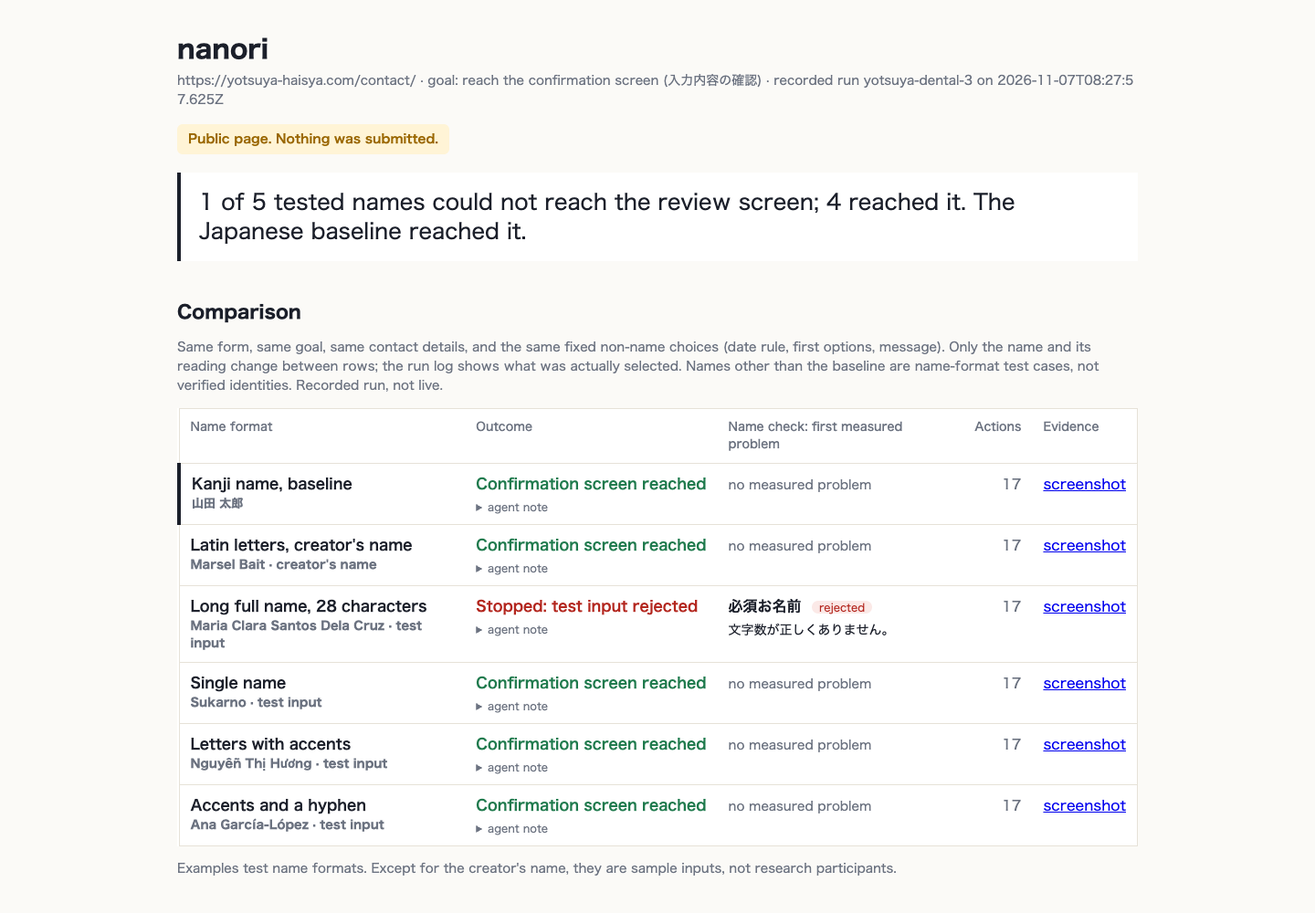
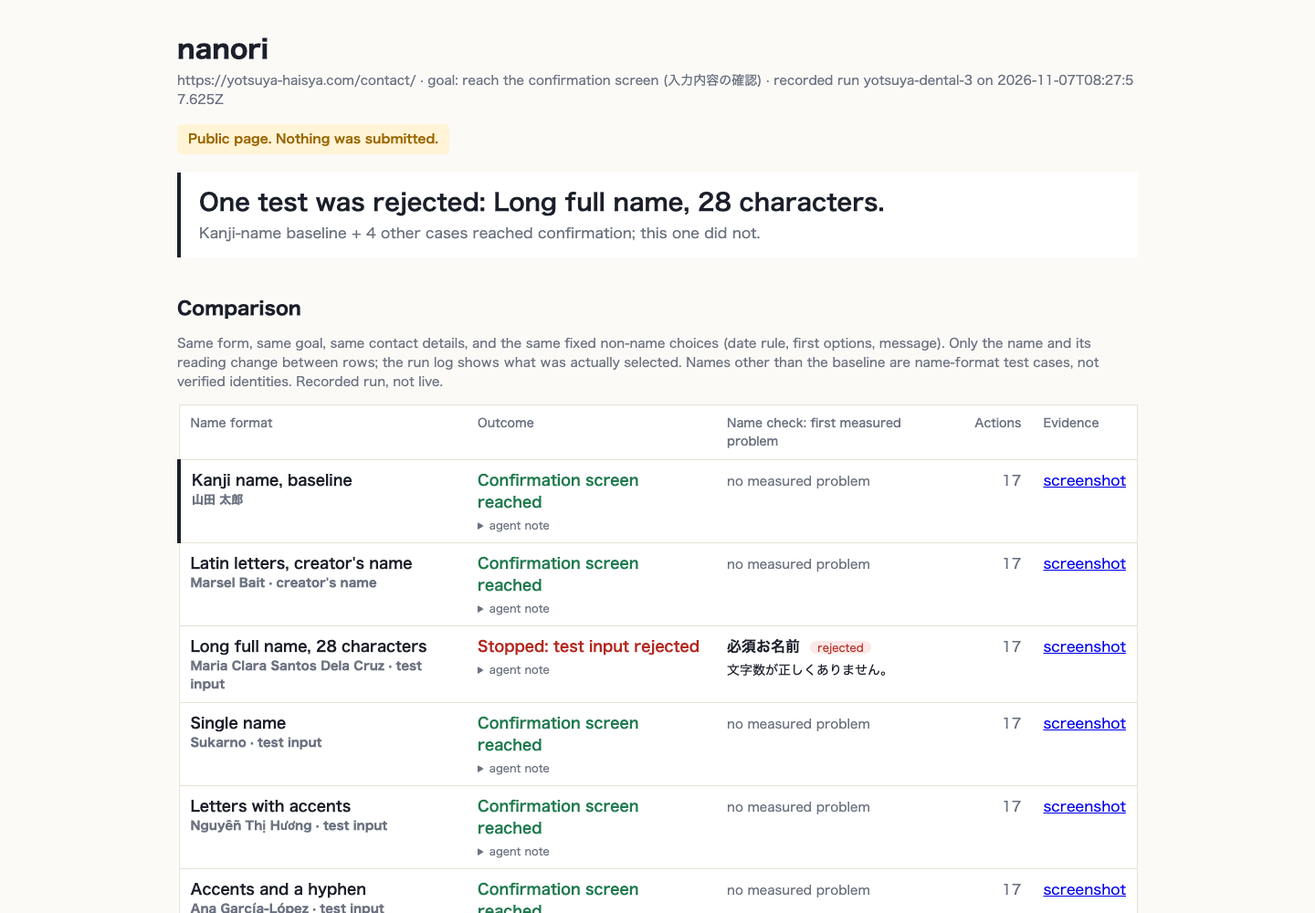
Design pass: immediate headline, detail crop of the evidence, repair table under the verdict on repaired reports, stacked cards on narrow screens, cross-report and probe links

diff --git a/src/report/html.ts b/src/report/html.ts
@@ -1,7 +1,7 @@
 import type { RunBundle, RunResult, Finding, Step, FieldObservation } from "../types.js";
 import { norm } from "../checkpoint.js";
 import { identityById } from "../battery.js";
-import { verdict, describe } from "../verdict.js";
+import { verdict, describe, headline } from "../verdict.js";
 import { checkField } from "../checks/index.js";
 
 const esc = (s: unknown) => String(s ?? "").replace(/[&<>"]/g, (c) => ({ "&": "&amp;", "<": "&lt;", ">": "&gt;", '"': "&quot;" }[c]!));
@@ -53,6 +53,7 @@ function evidenceShot(r: RunResult, s: Step | undefined): string | null {
 export function renderHtml(b: RunBundle): string {
   const all = [b.baseline, ...b.cases];
   const verdictText = verdict(b);
+  const hl = headline(b);
   const scope = b.target === "local_reproduction"
     ? (b.repairState === "after" ? "Repair verified on a local reproduction. Original website unchanged." : "Local reproduction, before repair. Original website unchanged.")
     : "Public page. Nothing was submitted.";
@@ -84,8 +85,8 @@ export function renderHtml(b: RunBundle): string {
   const selectedHtml = selected ? `
     <section class="selected ${selected.classification}">
       <div class="pair">
-        <figure><a href="${esc(baseShot)}" target="_blank"><img src="${esc(baseShot)}" alt="Baseline, final screen"></a><figcaption>Baseline · ${esc(b.baseline.identity.fullName)} · ${esc(describe(b.baseline.outcome))}</figcaption></figure>
-        <figure><a href="${esc(selShot)}" target="_blank"><img src="${esc(selShot)}" alt="Affected case, screen with the error"></a><figcaption>${esc(selRun?.identity.fullName)} · ${esc(describe(selRun!.outcome))} · step ${selected.stepIndex}</figcaption></figure>
+        <figure><div class="crop"><img src="${esc(selShot)}" alt="Detail: the name field and the error"></div><figcaption>Detail crop (the same screenshot, magnified around the centre; nothing edited) · <a href="${esc(selShot)}" target="_blank">open the untouched full screenshot</a></figcaption></figure>
+        <figure><a href="${esc(baseShot)}" target="_blank"><img src="${esc(baseShot)}" alt="Baseline, final screen"></a><figcaption>Baseline · ${esc(b.baseline.identity.fullName)} · ${esc(describe(b.baseline.outcome))} · <a href="${esc(baseShot)}" target="_blank">full screenshot</a></figcaption></figure>
       </div>
       <div class="facts">
         <span class="badge">${CLASS_LABEL[selected.classification]}</span> <span class="rev">${selected.reviewState === "proposed" ? "proposed by Claude from measured facts, not yet reviewed by a person" : "reviewed"}</span>
@@ -144,27 +145,37 @@ td.outcome{font-weight:600;white-space:nowrap}td.ok,.ok{color:var(--ok)}td.bad,.
 .site_defect .badge{background:var(--badbg);color:var(--bad)}.no_issue .badge{background:var(--okbg);color:var(--ok)}.agent_limit .badge{background:#eceff3;color:#374151}
 .rev{color:var(--muted);font-size:13px;margin-left:8px}dl{display:grid;grid-template-columns:160px 1fr;gap:8px 16px;margin:16px 0 0}dt{color:var(--muted);font-size:14px}dd{margin:0}
 code{font:14px ui-monospace,SFMono-Regular,Menlo,monospace;background:#f3f1ea;padding:1px 6px;border-radius:4px;word-break:break-all}code.big{font-size:20px;padding:4px 10px}
-.muted{color:var(--muted);font-size:14px}details{background:#fff;border:1px solid var(--line);border-radius:8px;padding:10px 16px;margin:10px 0}summary{cursor:pointer;font-weight:600}
+.muted{color:var(--muted);font-size:14px}details{background:#fff;border:1px solid var(--line);border-radius:8px;padding:10px 16px;margin:10px 0}summary{cursor:pointer;font-weight:600}details.cmp{padding:4px 16px}details.cmp h2{margin-top:12px}
 .finding dl{grid-template-columns:140px 1fr}.log{font-size:14px;padding-left:20px}.log li{margin:4px 0}.log li.bad{color:var(--bad)}.log .act{font-weight:600}.log ul{margin:2px 0 6px;color:var(--ink)}
-table.ba td{font-weight:600}@media (max-width:800px){.pair{grid-template-columns:1fr}dl{grid-template-columns:1fr}}
+table.ba td{font-weight:600}.verdict .head{font-size:26px;font-weight:600;line-height:1.3}.verdict .support{font-size:16px;color:var(--muted);margin-top:6px}
+.crop{position:relative;overflow:hidden;border:1px solid var(--line);border-radius:6px;aspect-ratio:4/3;background:#fff}.crop img{position:absolute;left:50%;top:50%;width:200%;max-width:none;transform:translate(-50%,-50%)}
+.passed{background:var(--okbg);color:var(--ok);padding:14px 18px;border-radius:8px;font-weight:600}
+td.outcome{white-space:normal}
+@media (max-width:800px){.pair{grid-template-columns:1fr}dl{grid-template-columns:1fr}.verdict .head{font-size:21px}
+ table:not(.ba){display:block}table:not(.ba) thead{display:none}table:not(.ba) tbody,table:not(.ba) tr{display:block}table:not(.ba) tr{border:1px solid var(--line);border-radius:8px;margin:10px 0;padding:8px 12px;background:#fff}table:not(.ba) th,table:not(.ba) td{display:block;border:0;padding:4px 0;min-width:0}td.num{text-align:left}
+ table.ba{display:block;overflow-x:auto;white-space:nowrap}.meta{word-break:break-all}}
 footer{margin-top:48px;color:var(--muted);font-size:13px}
 </style></head><body><main>
 <h1>nanori</h1>
 <div class="meta">${esc(b.url)} · goal: ${esc(b.goal)} · recorded run ${esc(b.id)} on ${esc(b.createdAt)}</div>
 <p><span class="scope">${esc(scope)}</span></p>
-<div class="verdict">${esc(verdictText)}</div>
+<div class="verdict"><div class="head">${esc(hl.head)}</div>${hl.support ? `<div class="support">${esc(hl.support)}</div>` : ""}</div>
 
+${b.before ? beforeAfter : ""}
+${b.before ? `<details class="cmp"><summary>Comparison table for this run (all cases)</summary>` : ""}
 <h2>Comparison</h2>
 <p class="muted">${b.scenario ? "Same form, same goal, same contact details, and the same fixed non-name choices (date rule, first options, message). Only the name and its reading change between rows; the run log shows what was actually selected." : "Same form, same goal, same contact details. Non-name choices (options, message) were left to the agent in this run and may differ between rows; see the run log."} Names other than the baseline are name-format test cases, not verified identities. Recorded run, not live.</p>
 <table><thead><tr><th>Name format</th><th>Outcome</th><th>Name check: first measured problem</th><th>Actions</th><th>Evidence</th></tr></thead><tbody>${rows}</tbody></table>
 <p class="muted">Examples test name formats. Except for the creator's name, they are sample inputs, not research participants.</p>
 ${(() => { const od = all.flatMap((r) => otherDiagnostics(r).map((d) => ({ r, ...d }))); return od.length ? `<details class="other"><summary>Other diagnostics (${od.length}, not name findings; kept in the data)</summary><ul>${od.map((d) => `<li><span class="muted">${esc(d.r.identity.fullName)} · step ${d.step.index} · ${esc(d.o.label ?? d.o.name)}</span>: ${esc(d.c.kind)}${d.c.detail ? ` <span lang="ja">${esc(d.c.detail)}</span>` : ""}${d.c.source === "nanori" ? " <em>(nanori measurement)</em>" : ""}<br><span class="muted">typed "${esc(d.o.requested)}", field kept "${esc(d.o.retained)}"${d.o.diagnostic ? "; uncertain: " + esc(d.o.diagnostic.note) : ""}</span></li>`).join("")}</ul></details>` : ""; })()}
 
-<h2>Evidence</h2>
-${selectedHtml}
-${others ? `<h3 class="muted">Other findings</h3>${others}` : ""}
+${b.before ? `</details>` : ""}
 
-${beforeAfter}
+<h2>Evidence</h2>
+${b.findings.length ? selectedHtml : `<p class="passed">${esc(b.before ? "Every case reached the confirmation screen on the repaired reproduction, with each name shown exactly in its review row. No name finding; no site error text was recorded." : "No findings.")}</p>`}
+${others ? `<h3 class="muted">Other findings</h3>${others}` : ""}
+${b.publicRun ? `<p class="muted">The public finding this repair answers: <a href="../${esc(b.publicRun)}/report.html">${esc(b.publicRun)}/report.html</a>.</p>` : ""}
+${b.probe ? `<p class="muted">Separate boundary probe (same page, fixed inputs, only the name length varied): ${esc(b.probe.summary)} <a href="${esc(b.probe.href)}" target="_blank">probe evidence</a>. The model-written cause above was captured before this probe and is left as recorded.</p>` : ""}
 
 <h2>Run details</h2>
 ${log}

diff --git a/runs/yotsuya-local-after/report.html b/runs/yotsuya-local-after/report.html
@@ -18,16 +18,30 @@ td.outcome{font-weight:600;white-space:nowrap}td.ok,.ok{color:var(--ok)}td.bad,.
 .site_defect .badge{background:var(--badbg);color:var(--bad)}.no_issue .badge{background:var(--okbg);color:var(--ok)}.agent_limit .badge{background:#eceff3;color:#374151}
 .rev{color:var(--muted);font-size:13px;margin-left:8px}dl{display:grid;grid-template-columns:160px 1fr;gap:8px 16px;margin:16px 0 0}dt{color:var(--muted);font-size:14px}dd{margin:0}
 code{font:14px ui-monospace,SFMono-Regular,Menlo,monospace;background:#f3f1ea;padding:1px 6px;border-radius:4px;word-break:break-all}code.big{font-size:20px;padding:4px 10px}
-.muted{color:var(--muted);font-size:14px}details{background:#fff;border:1px solid var(--line);border-radius:8px;padding:10px 16px;margin:10px 0}summary{cursor:pointer;font-weight:600}
+.muted{color:var(--muted);font-size:14px}details{background:#fff;border:1px solid var(--line);border-radius:8px;padding:10px 16px;margin:10px 0}summary{cursor:pointer;font-weight:600}details.cmp{padding:4px 16px}details.cmp h2{margin-top:12px}
 .finding dl{grid-template-columns:140px 1fr}.log{font-size:14px;padding-left:20px}.log li{margin:4px 0}.log li.bad{color:var(--bad)}.log .act{font-weight:600}.log ul{margin:2px 0 6px;color:var(--ink)}
-table.ba td{font-weight:600}@media (max-width:800px){.pair{grid-template-columns:1fr}dl{grid-template-columns:1fr}}
+table.ba td{font-weight:600}.verdict .head{font-size:26px;font-weight:600;line-height:1.3}.verdict .support{font-size:16px;color:var(--muted);margin-top:6px}
+.crop{position:relative;overflow:hidden;border:1px solid var(--line);border-radius:6px;aspect-ratio:4/3;background:#fff}.crop img{position:absolute;left:50%;top:50%;width:200%;max-width:none;transform:translate(-50%,-50%)}
+.passed{background:var(--okbg);color:var(--ok);padding:14px 18px;border-radius:8px;font-weight:600}
+td.outcome{white-space:normal}
+@media (max-width:800px){.pair{grid-template-columns:1fr}dl{grid-template-columns:1fr}.verdict .head{font-size:21px}
+ table:not(.ba){display:block}table:not(.ba) thead{display:none}table:not(.ba) tbody,table:not(.ba) tr{display:block}table:not(.ba) tr{border:1px solid var(--line);border-radius:8px;margin:10px 0;padding:8px 12px;background:#fff}table:not(.ba) th,table:not(.ba) td{display:block;border:0;padding:4px 0;min-width:0}td.num{text-align:left}
+ table.ba{display:block;overflow-x:auto;white-space:nowrap}.meta{word-break:break-all}}
 footer{margin-top:48px;color:var(--muted);font-size:13px}
 </style></head><body><main>
 <h1>nanori</h1>
 <div class="meta">http://localhost:4313/ · goal: reach the confirmation screen (入力内容の確認) · recorded run yotsuya-local-after on 2026-11-07T08:28:24.077Z</div>
 <p><span class="scope">Repair verified on a local reproduction. Original website unchanged.</span></p>
-<div class="verdict">All 5 tested names reached the review screen, as the baseline did.</div>
+<div class="verdict"><div class="head">All tested name formats reached confirmation.</div><div class="support">Kanji-name baseline + 5 other cases reached the confirmation screen.</div></div>
 
+
+    <h2>Repair verification</h2>
+    <p class="scope">Repair verified on a local reproduction. Original website unchanged.</p>
+    <table class="ba"><thead><tr><th>Name format</th><th>Before (yotsuya-local-before, local reproduction, before repair)</th><th>After (this run, local reproduction, repaired)</th><th>Name shown exactly in review row</th></tr></thead><tbody>
+    <tr><th>山田 太郎</th><td class="ok">reached the review screen</td><td class="ok">reached the review screen</td><td>yes</td></tr><tr><th>Marsel Bait</th><td class="ok">reached the review screen</td><td class="ok">reached the review screen</td><td>yes</td></tr><tr><th>Maria Clara Santos Dela Cruz</th><td class="bad">stopped before the review screen</td><td class="ok">reached the review screen</td><td>yes</td></tr><tr><th>Sukarno</th><td class="ok">reached the review screen</td><td class="ok">reached the review screen</td><td>yes</td></tr><tr><th>Nguyễn Thị Hương</th><td class="ok">reached the review screen</td><td class="ok">reached the review screen</td><td>yes</td></tr><tr><th>Ana García-López</th><td class="ok">reached the review screen</td><td class="ok">reached the review screen</td><td>yes</td></tr>
+    </tbody></table>
+    <p class="muted">Both columns are the same local reproduction, before and after the repair; the public finding is linked separately. Passing results prove these cases on the reproduction, not the live site. "Exactly" means the review row's value equals the typed value after whitespace and Unicode normalisation. Genuinely invalid input must still be rejected; the local copy's banner says what was changed.</p>
+<details class="cmp"><summary>Comparison table for this run (all cases)</summary>
 <h2>Comparison</h2>
 <p class="muted">Same form, same goal, same contact details, and the same fixed non-name choices (date rule, first options, message). Only the name and its reading change between rows; the run log shows what was actually selected. Names other than the baseline are name-format test cases, not verified identities. Recorded run, not live.</p>
 <table><thead><tr><th>Name format</th><th>Outcome</th><th>Name check: first measured problem</th><th>Actions</th><th>Evidence</th></tr></thead><tbody><tr class="baseline">
@@ -64,17 +78,13 @@ footer{margin-top:48px;color:var(--muted);font-size:13px}
 <p class="muted">Examples test name formats. Except for the creator's name, they are sample inputs, not research participants.</p>
 
 
+</details>
+
 <h2>Evidence</h2>
-<p class="muted">No findings.</p>
+<p class="passed">Every case reached the confirmation screen on the repaired reproduction, with each name shown exactly in its review row. No name finding; no site error text was recorded.</p>
 
+<p class="muted">The public finding this repair answers: <a href="../yotsuya-dental-3/report.html">yotsuya-dental-3/report.html</a>.</p>
 
-
-    <h2>Repair verification</h2>
-    <p class="scope">Repair verified on a local reproduction. Original website unchanged.</p>
-    <table class="ba"><thead><tr><th>Name format</th><th>Before (yotsuya-local-before, local reproduction, before repair)</th><th>After (this run, local reproduction, repaired)</th><th>Name shown exactly in review row</th></tr></thead><tbody>
-    <tr><th>山田 太郎</th><td class="ok">reached the review screen</td><td class="ok">reached the review screen</td><td>yes</td></tr><tr><th>Marsel Bait</th><td class="ok">reached the review screen</td><td class="ok">reached the review screen</td><td>yes</td></tr><tr><th>Maria Clara Santos Dela Cruz</th><td class="bad">stopped before the review screen</td><td class="ok">reached the review screen</td><td>yes</td></tr><tr><th>Sukarno</th><td class="ok">reached the review screen</td><td class="ok">reached the review screen</td><td>yes</td></tr><tr><th>Nguyễn Thị Hương</th><td class="ok">reached the review screen</td><td class="ok">reached the review screen</td><td>yes</td></tr><tr><th>Ana García-López</th><td class="ok">reached the review screen</td><td class="ok">reached the review screen</td><td>yes</td></tr>
-    </tbody></table>
-    <p class="muted">Both columns are the same local reproduction, before and after the repair; the public finding is linked separately. Passing results prove these cases on the reproduction, not the live site. "Exactly" means the review row's value equals the typed value after whitespace and Unicode normalisation. Genuinely invalid input must still be rejected; the local copy's banner says what was changed.</p>
 
 <h2>Run details</h2>
 

diff --git a/runs/yotsuya-dental-3/report.html b/runs/yotsuya-dental-3/report.html
@@ -20,13 +20,19 @@ td.outcome{font-weight:600;white-space:nowrap}td.ok,.ok{color:var(--ok)}td.bad,.
 code{font:14px ui-monospace,SFMono-Regular,Menlo,monospace;background:#f3f1ea;padding:1px 6px;border-radius:4px;word-break:break-all}code.big{font-size:20px;padding:4px 10px}
 .muted{color:var(--muted);font-size:14px}details{background:#fff;border:1px solid var(--line);border-radius:8px;padding:10px 16px;margin:10px 0}summary{cursor:pointer;font-weight:600}
 .finding dl{grid-template-columns:140px 1fr}.log{font-size:14px;padding-left:20px}.log li{margin:4px 0}.log li.bad{color:var(--bad)}.log .act{font-weight:600}.log ul{margin:2px 0 6px;color:var(--ink)}
-table.ba td{font-weight:600}@media (max-width:800px){.pair{grid-template-columns:1fr}dl{grid-template-columns:1fr}}
+table.ba td{font-weight:600}.verdict .head{font-size:26px;font-weight:600;line-height:1.3}.verdict .support{font-size:16px;color:var(--muted);margin-top:6px}
+.crop{position:relative;overflow:hidden;border:1px solid var(--line);border-radius:6px;aspect-ratio:4/3;background:#fff}.crop img{position:absolute;left:50%;top:50%;width:200%;max-width:none;transform:translate(-50%,-50%)}
+.passed{background:var(--okbg);color:var(--ok);padding:14px 18px;border-radius:8px;font-weight:600}
+td.outcome{white-space:normal}
+@media (max-width:800px){.pair{grid-template-columns:1fr}dl{grid-template-columns:1fr}.verdict .head{font-size:21px}
+ table:not(.ba){display:block}table:not(.ba) thead{display:none}table:not(.ba) tbody,table:not(.ba) tr{display:block}table:not(.ba) tr{border:1px solid var(--line);border-radius:8px;margin:10px 0;padding:8px 12px;background:#fff}table:not(.ba) th,table:not(.ba) td{display:block;border:0;padding:4px 0;min-width:0}td.num{text-align:left}
+ table.ba{display:block;overflow-x:auto;white-space:nowrap}.meta{word-break:break-all}}
 footer{margin-top:48px;color:var(--muted);font-size:13px}
 </style></head><body><main>
 <h1>nanori</h1>
 <div class="meta">https://yotsuya-haisya.com/contact/ · goal: reach the confirmation screen (入力内容の確認) · recorded run yotsuya-dental-3 on 2026-11-07T08:27:57.625Z</div>
 <p><span class="scope">Public page. Nothing was submitted.</span></p>
-<div class="verdict">1 of 5 tested names could not reach the review screen; 4 reached it. The Japanese baseline reached it.</div>
+<div class="verdict"><div class="head">One test was rejected: Long full name, 28 characters.</div><div class="support">Kanji-name baseline + 4 other cases reached confirmation; this one did not.</div></div>
 
 <h2>Comparison</h2>
 <p class="muted">Same form, same goal, same contact details, and the same fixed non-name choices (date rule, first options, message). Only the name and its reading change between rows; the run log shows what was actually selected. Names other than the baseline are name-format test cases, not verified identities. Recorded run, not live.</p>
@@ -64,12 +70,14 @@ footer{margin-top:48px;color:var(--muted);font-size:13px}
 <p class="muted">Examples test name formats. Except for the creator's name, they are sample inputs, not research participants.</p>
 
 
+
+
 <h2>Evidence</h2>
 
     <section class="selected site_defect">
       <div class="pair">
-        <figure><a href="baseline/step-17.jpg" target="_blank"><img src="baseline/step-17.jpg" alt="Baseline, final screen"></a><figcaption>Baseline · 山田 太郎 · reached the review screen</figcaption></figure>
-        <figure><a href="long-name-spaces/step-16-after.jpg" target="_blank"><img src="long-name-spaces/step-16-after.jpg" alt="Affected case, screen with the error"></a><figcaption>Maria Clara Santos Dela Cruz · stopped before the review screen · step 16</figcaption></figure>
+        <figure><div class="crop"><img src="long-name-spaces/step-16-after.jpg" alt="Detail: the name field and the error"></div><figcaption>Detail crop (the same screenshot, magnified around the centre; nothing edited) · <a href="long-name-spaces/step-16-after.jpg" target="_blank">open the untouched full screenshot</a></figcaption></figure>
+        <figure><a href="baseline/step-17.jpg" target="_blank"><img src="baseline/step-17.jpg" alt="Baseline, final screen"></a><figcaption>Baseline · 山田 太郎 · reached the review screen · <a href="baseline/step-17.jpg" target="_blank">full screenshot</a></figcaption></figure>
       </div>
       <div class="facts">
         <span class="badge">Site defect, supported by evidence</span> <span class="rev">proposed by Claude from measured facts, not yet reviewed by a person</span>
@@ -88,7 +96,7 @@ footer{margin-top:48px;color:var(--muted);font-size:13px}
     </section>
 
 
-
+<p class="muted">Separate boundary probe (same page, fixed inputs, only the name length varied): 20 characters accepted, 21 rejected, for the tested strings; the server implementation was not inspected. <a href="../yotsuya-dental-1/diag/diag-length.json" target="_blank">probe evidence</a>. The model-written cause above was captured before this probe and is left as recorded.</p>
 
 <h2>Run details</h2>
 

diff --git a/runs/yotsuya-local-before/report.html b/runs/yotsuya-local-before/report.html
@@ -20,13 +20,19 @@ td.outcome{font-weight:600;white-space:nowrap}td.ok,.ok{color:var(--ok)}td.bad,.
 code{font:14px ui-monospace,SFMono-Regular,Menlo,monospace;background:#f3f1ea;padding:1px 6px;border-radius:4px;word-break:break-all}code.big{font-size:20px;padding:4px 10px}
 .muted{color:var(--muted);font-size:14px}details{background:#fff;border:1px solid var(--line);border-radius:8px;padding:10px 16px;margin:10px 0}summary{cursor:pointer;font-weight:600}
 .finding dl{grid-template-columns:140px 1fr}.log{font-size:14px;padding-left:20px}.log li{margin:4px 0}.log li.bad{color:var(--bad)}.log .act{font-weight:600}.log ul{margin:2px 0 6px;color:var(--ink)}
-table.ba td{font-weight:600}@media (max-width:800px){.pair{grid-template-columns:1fr}dl{grid-template-columns:1fr}}
+table.ba td{font-weight:600}.verdict .head{font-size:26px;font-weight:600;line-height:1.3}.verdict .support{font-size:16px;color:var(--muted);margin-top:6px}
+.crop{position:relative;overflow:hidden;border:1px solid var(--line);border-radius:6px;aspect-ratio:4/3;background:#fff}.crop img{position:absolute;left:50%;top:50%;width:200%;max-width:none;transform:translate(-50%,-50%)}
+.passed{background:var(--okbg);color:var(--ok);padding:14px 18px;border-radius:8px;font-weight:600}
+td.outcome{white-space:normal}
+@media (max-width:800px){.pair{grid-template-columns:1fr}dl{grid-template-columns:1fr}.verdict .head{font-size:21px}
+ table:not(.ba){display:block}table:not(.ba) thead{display:none}table:not(.ba) tbody,table:not(.ba) tr{display:block}table:not(.ba) tr{border:1px solid var(--line);border-radius:8px;margin:10px 0;padding:8px 12px;background:#fff}table:not(.ba) th,table:not(.ba) td{display:block;border:0;padding:4px 0;min-width:0}td.num{text-align:left}
+ table.ba{display:block;overflow-x:auto;white-space:nowrap}.meta{word-break:break-all}}
 footer{margin-top:48px;color:var(--muted);font-size:13px}
 </style></head><body><main>
 <h1>nanori</h1>
 <div class="meta">http://localhost:4312/ · goal: reach the confirmation screen (入力内容の確認) · recorded run yotsuya-local-before on 2026-11-07T08:25:34.970Z</div>
 <p><span class="scope">Local reproduction, before repair. Original website unchanged.</span></p>
-<div class="verdict">1 of 5 tested names could not reach the review screen; 4 reached it. The Japanese baseline reached it.</div>
+<div class="verdict"><div class="head">One test was rejected: Long full name, 28 characters.</div><div class="support">Kanji-name baseline + 4 other cases reached confirmation; this one did not.</div></div>
 
 <h2>Comparison</h2>
 <p class="muted">Same form, same goal, same contact details, and the same fixed non-name choices (date rule, first options, message). Only the name and its reading change between rows; the run log shows what was actually selected. Names other than the baseline are name-format test cases, not verified identities. Recorded run, not live.</p>
@@ -64,12 +70,14 @@ footer{margin-top:48px;color:var(--muted);font-size:13px}
 <p class="muted">Examples test name formats. Except for the creator's name, they are sample inputs, not research participants.</p>
 
 
+
+
 <h2>Evidence</h2>
 
     <section class="selected site_defect">
       <div class="pair">
-        <figure><a href="baseline/step-11.jpg" target="_blank"><img src="baseline/step-11.jpg" alt="Baseline, final screen"></a><figcaption>Baseline · 山田 太郎 · reached the review screen</figcaption></figure>
-        <figure><a href="long-name-spaces/step-10-after.jpg" target="_blank"><img src="long-name-spaces/step-10-after.jpg" alt="Affected case, screen with the error"></a><figcaption>Maria Clara Santos Dela Cruz · stopped before the review screen · step 10</figcaption></figure>
+        <figure><div class="crop"><img src="long-name-spaces/step-10-after.jpg" alt="Detail: the name field and the error"></div><figcaption>Detail crop (the same screenshot, magnified around the centre; nothing edited) · <a href="long-name-spaces/step-10-after.jpg" target="_blank">open the untouched full screenshot</a></figcaption></figure>
+        <figure><a href="baseline/step-11.jpg" target="_blank"><img src="baseline/step-11.jpg" alt="Baseline, final screen"></a><figcaption>Baseline · 山田 太郎 · reached the review screen · <a href="baseline/step-11.jpg" target="_blank">full screenshot</a></figcaption></figure>
       </div>
       <div class="facts">
         <span class="badge">Site defect, supported by evidence</span> <span class="rev">proposed by Claude from measured facts, not yet reviewed by a person</span>
@@ -87,7 +95,7 @@ footer{margin-top:48px;color:var(--muted);font-size:13px}
       </div>
     </section>
 
-
+<p class="muted">The public finding this repair answers: <a href="../yotsuya-dental-3/report.html">yotsuya-dental-3/report.html</a>.</p>
 
 
 <h2>Run details</h2>

diff --git a/runs/fixture-full/report.html b/runs/fixture-full/report.html
@@ -20,13 +20,19 @@ td.outcome{font-weight:600;white-space:nowrap}td.ok,.ok{color:var(--ok)}td.bad,.
 code{font:14px ui-monospace,SFMono-Regular,Menlo,monospace;background:#f3f1ea;padding:1px 6px;border-radius:4px;word-break:break-all}code.big{font-size:20px;padding:4px 10px}
 .muted{color:var(--muted);font-size:14px}details{background:#fff;border:1px solid var(--line);border-radius:8px;padding:10px 16px;margin:10px 0}summary{cursor:pointer;font-weight:600}
 .finding dl{grid-template-columns:140px 1fr}.log{font-size:14px;padding-left:20px}.log li{margin:4px 0}.log li.bad{color:var(--bad)}.log .act{font-weight:600}.log ul{margin:2px 0 6px;color:var(--ink)}
-table.ba td{font-weight:600}@media (max-width:800px){.pair{grid-template-columns:1fr}dl{grid-template-columns:1fr}}
+table.ba td{font-weight:600}.verdict .head{font-size:26px;font-weight:600;line-height:1.3}.verdict .support{font-size:16px;color:var(--muted);margin-top:6px}
+.crop{position:relative;overflow:hidden;border:1px solid var(--line);border-radius:6px;aspect-ratio:4/3;background:#fff}.crop img{position:absolute;left:50%;top:50%;width:200%;max-width:none;transform:translate(-50%,-50%)}
+.passed{background:var(--okbg);color:var(--ok);padding:14px 18px;border-radius:8px;font-weight:600}
+td.outcome{white-space:normal}
+@media (max-width:800px){.pair{grid-template-columns:1fr}dl{grid-template-columns:1fr}.verdict .head{font-size:21px}
+ table:not(.ba){display:block}table:not(.ba) thead{display:none}table:not(.ba) tbody,table:not(.ba) tr{display:block}table:not(.ba) tr{border:1px solid var(--line);border-radius:8px;margin:10px 0;padding:8px 12px;background:#fff}table:not(.ba) th,table:not(.ba) td{display:block;border:0;padding:4px 0;min-width:0}td.num{text-align:left}
+ table.ba{display:block;overflow-x:auto;white-space:nowrap}.meta{word-break:break-all}}
 footer{margin-top:48px;color:var(--muted);font-size:13px}
 </style></head><body><main>
 <h1>nanori</h1>
 <div class="meta">http://localhost:4310/ · goal: reach the reservation review screen · recorded run fixture-full on 2026-11-06T08:41:42.371Z</div>
 <p><span class="scope">Public page. Nothing was submitted.</span></p>
-<div class="verdict">4 of 5 tested names could not reach the review screen; 1 reached it. The Japanese baseline reached it.</div>
+<div class="verdict"><div class="head">4 of 5 tested names could not reach the review screen; 1 reached it. The Japanese baseline reached it.</div></div>
 
 <h2>Comparison</h2>
 <p class="muted">Same form, same goal, same contact details. Non-name choices (options, message) were left to the agent in this run and may differ between rows; see the run log. Names other than the baseline are name-format test cases, not verified identities. Recorded run, not live.</p>
@@ -64,12 +70,14 @@ footer{margin-top:48px;color:var(--muted);font-size:13px}
 <p class="muted">Examples test name formats. Except for the creator's name, they are sample inputs, not research participants.</p>
 
 
+
+
 <h2>Evidence</h2>
 
     <section class="selected site_defect">
       <div class="pair">
-        <figure><a href="baseline/step-11.jpg" target="_blank"><img src="baseline/step-11.jpg" alt="Baseline, final screen"></a><figcaption>Baseline · 山田 太郎 · reached the review screen</figcaption></figure>
-        <figure><a href="long-name-spaces/step-05.jpg" target="_blank"><img src="long-name-spaces/step-05.jpg" alt="Affected case, screen with the error"></a><figcaption>Maria Clara Santos Dela Cruz · stopped before the review screen · step 5</figcaption></figure>
+        <figure><div class="crop"><img src="long-name-spaces/step-05.jpg" alt="Detail: the name field and the error"></div><figcaption>Detail crop (the same screenshot, magnified around the centre; nothing edited) · <a href="long-name-spaces/step-05.jpg" target="_blank">open the untouched full screenshot</a></figcaption></figure>
+        <figure><a href="baseline/step-11.jpg" target="_blank"><img src="baseline/step-11.jpg" alt="Baseline, final screen"></a><figcaption>Baseline · 山田 太郎 · reached the review screen · <a href="baseline/step-11.jpg" target="_blank">full screenshot</a></figcaption></figure>
       </div>
       <div class="facts">
         <span class="badge">Site defect, supported by evidence</span> <span class="rev">proposed by Claude from measured facts, not yet reviewed by a person</span>

diff --git a/src/verdict.ts b/src/verdict.ts
@@ -13,6 +13,18 @@ export function tally(cases: RunResult[]): Tally {
   return t;
 }
 
+/** Headline + supporting line. Never claims "all reached" unless every case was verified reached. */
+export function headline(b: Pick<RunBundle, "baseline" | "cases">): { head: string; support: string } {
+  const t = tally(b.cases);
+  if (b.baseline.outcome !== "reached_checkpoint") return { head: "Comparison inconclusive.", support: `The kanji-name baseline did not reach the confirmation screen (${describe(b.baseline.outcome)}).` };
+  if (t.total === 0) return { head: "No name cases were run.", support: "" };
+  const stoppedCases = b.cases.filter((c) => c.outcome === "stopped_before_checkpoint");
+  const names = stoppedCases.map((c) => (c.identity as any).label ?? c.identity.tests);
+  if (t.reached === t.total) return { head: "All tested name formats reached confirmation.", support: `Kanji-name baseline + ${t.total} other ${t.total === 1 ? "case" : "cases"} reached the confirmation screen.` };
+  if (t.stopped === 1 && t.undetermined === 0 && t.workaround === 0) return { head: `One test was rejected: ${names[0]}.`, support: `Kanji-name baseline + ${t.reached} other ${t.reached === 1 ? "case" : "cases"} reached confirmation; this one did not.` };
+  return { head: verdict(b), support: "" };
+}
+
 /** One honest sentence. Never claims "all reached" unless every case was verified reached. */
 export function verdict(b: Pick<RunBundle, "baseline" | "cases">): string {
   const t = tally(b.cases);

diff --git a/src/types.ts b/src/types.ts
@@ -138,6 +138,10 @@ export interface RunBundle {
   comparedTo?: string;
   /** Summary of the compared run, copied at rerun time so the report is self-contained. */
   before?: { id: string; target: string; outcomes: Record<string, Outcome> };
+  /** For repaired reruns: the public run whose finding this repair answers (cross-report link). */
+  publicRun?: string;
+  /** Separate boundary probe evidence attached at render time. */
+  probe?: { summary: string; href: string };
   /** The fixed non-name scenario the agent was told to use. Absent on runs made before it existed. */
   scenario?: Record<string, string>;
   baseline: RunResult;
